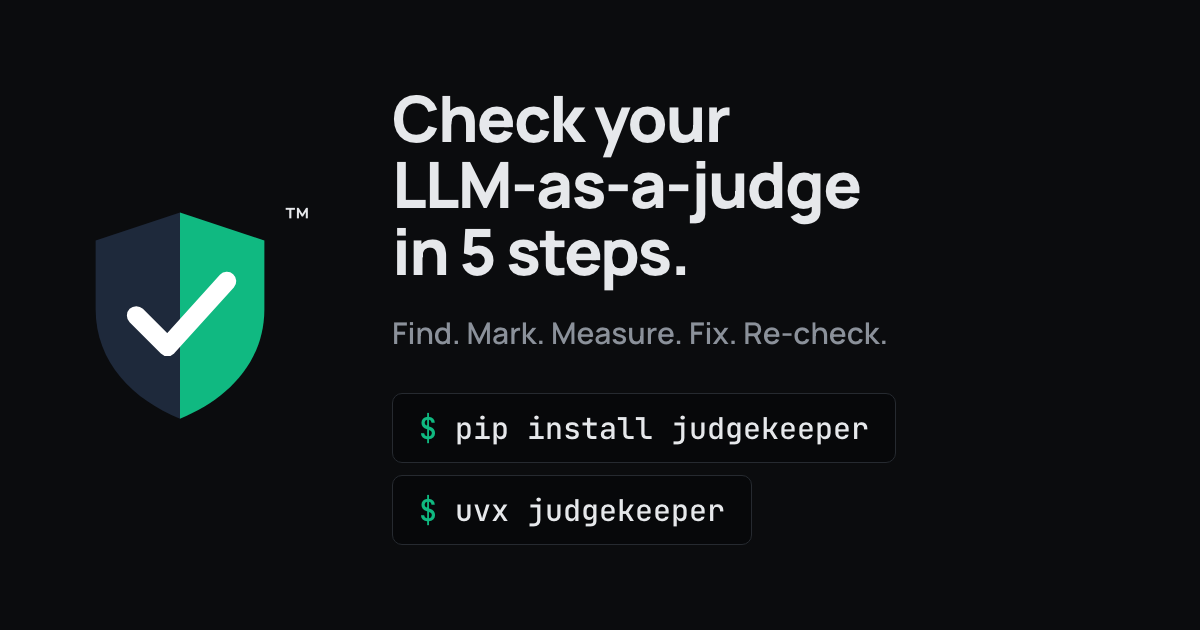
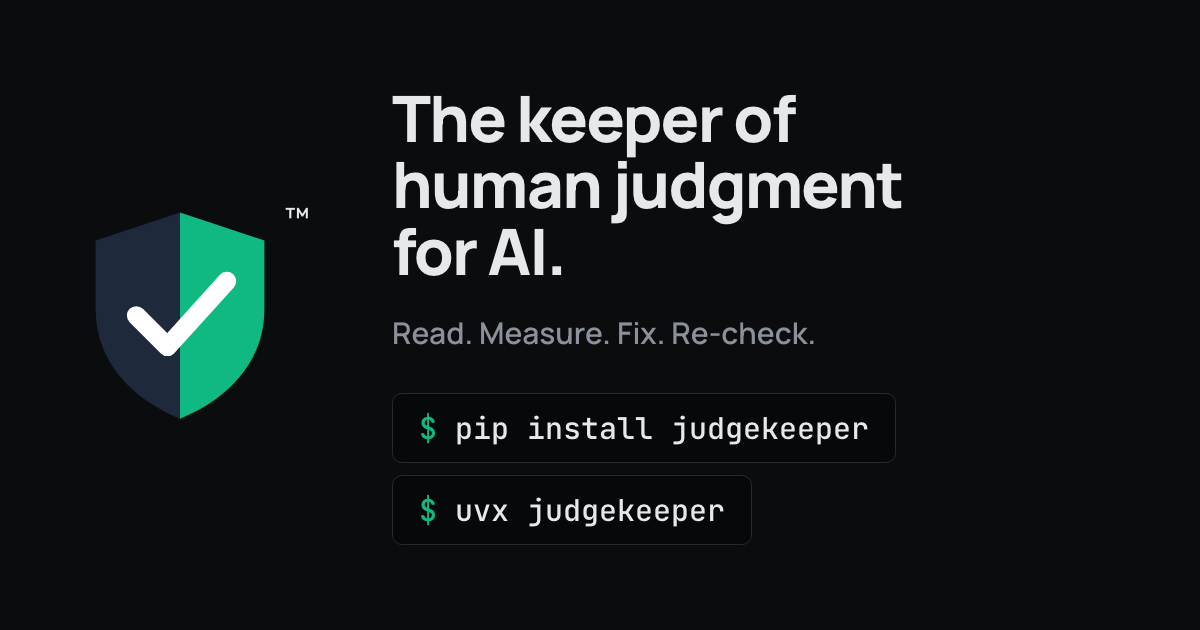
Match the profile to the new headline and 4 steps (#4)

Changed region(s): [[0.3083, 0.1508, 0.7708, 0.4524], [0.3083, 0.5127, 0.74, 0.5429]]

diff --git a/profile/README.md b/profile/README.md
@@ -1,6 +1,6 @@
 <p align="center">
   <a href="https://github.com/judgekeeper/judgekeeper">
-    <img src="banner.png" alt="judgekeeper: Check your LLM-as-a-judge in 5 steps. Find. Mark. Measure. Fix. Re-check." width="820">
+    <img src="banner.png" alt="judgekeeper: The keeper of human judgment for AI. Read. Measure. Fix. Re-check." width="820">
   </a>
 </p>
 
@@ -11,19 +11,18 @@
   <a href="https://pypi.org/project/judgekeeper/"><b>PyPI</b></a>
 </p>
 
-An LLM-as-a-judge is an AI model that grades another model's answers. **judgekeeper** shows how often your LLM-as-a-judge agrees with you, and where it goes wrong. It is open source (Apache-2.0) and runs on your own computer.
+Human judgment decides what's right. **judgekeeper** shows how often each automated check agrees with it, from an LLM-as-a-judge grading one answer to a reviewer checking each step of an agent, and whether agreement goes up or down after each change. It is open source (Apache-2.0) and runs locally.
 
 <p align="center">
   <img src="https://raw.githubusercontent.com/judgekeeper/judgekeeper/main/docs/assets/demo.webp" alt="judgekeeper finds the results, opens the marking page, and shows how often the LLM-as-a-judge agrees with you." width="760">
 </p>
 
-### The 5 steps
+### The 4 steps
 
-1. **Find.** Find your eval results and the LLM-as-a-judge that graded them.
-2. **Mark.** Mark your answers Pass or Fail in your browser.
-3. **Measure.** See how often your LLM-as-a-judge agrees with you.
-4. **Fix.** Write a better rule and test it on marks kept aside.
-5. **Re-check.** Change your LLM-as-a-judge and see if it still agrees with you.
+1. **Read.** Read your eval results and your labels, such as a Label Studio export, or mark answers Pass or Fail in your browser.
+2. **Measure.** See how often your check agrees with you, and how much your people agree with each other.
+3. **Fix.** Write a better rule and test it on marks kept aside.
+4. **Re-check.** Change your check's prompt or model and see if agreement goes up or down.
 
 ### Install
 
@@ -34,4 +33,4 @@ judgekeeper
 ```
 Or, with no virtual environment: `uvx judgekeeper`.
 
-Works with promptfoo, DeepEval, Inspect AI, MLflow or your own CSV, TSV or JSONL file.
+Works with promptfoo, DeepEval, Inspect AI, MLflow, Label Studio exports or your own CSV, TSV or JSONL file. For agents, `judgekeeper steps` checks a reviewer's first wrong step.
